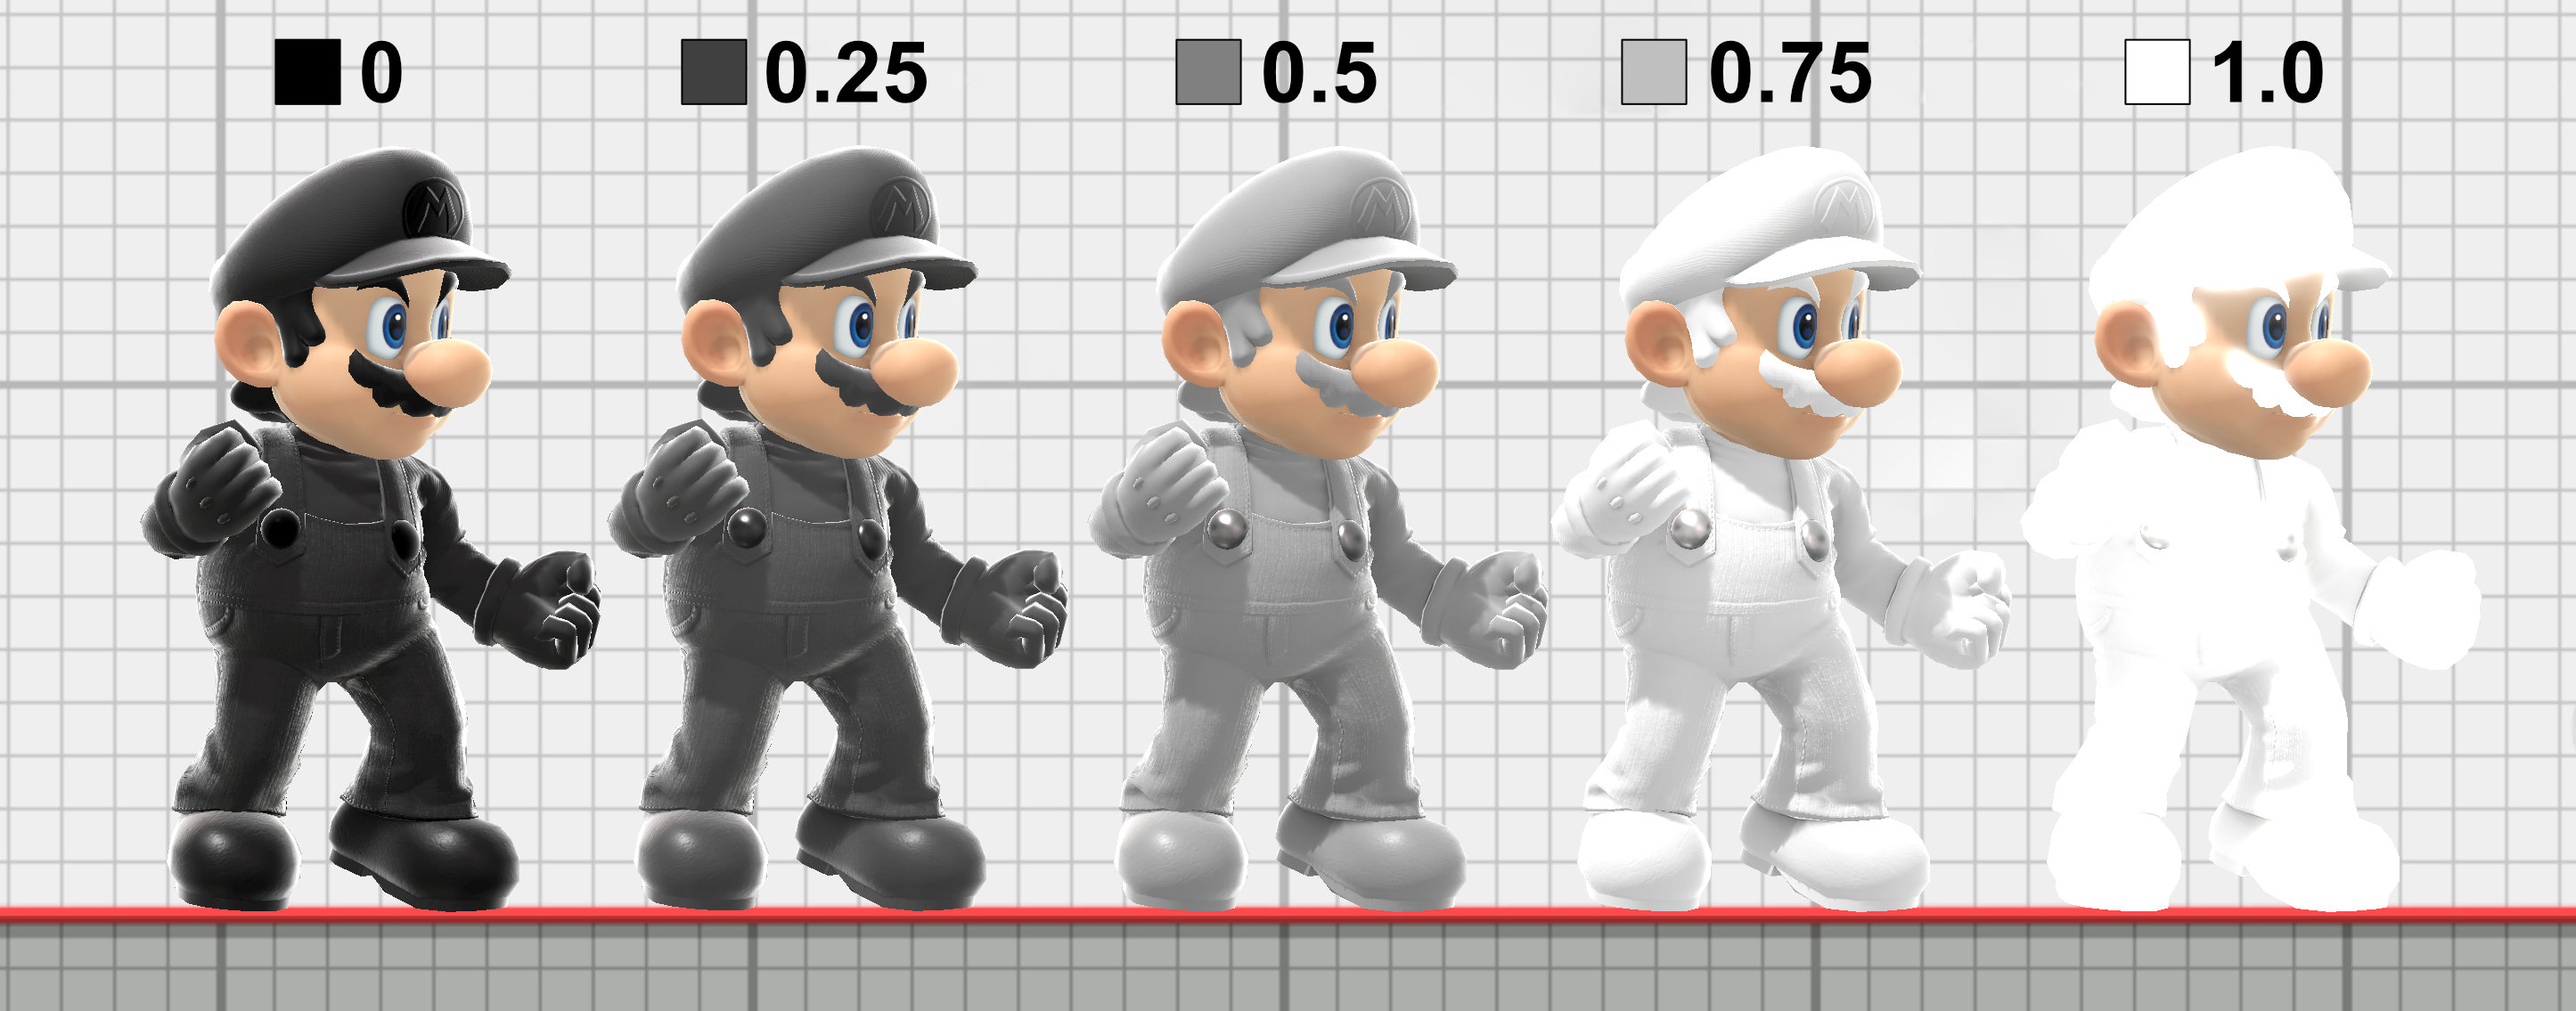
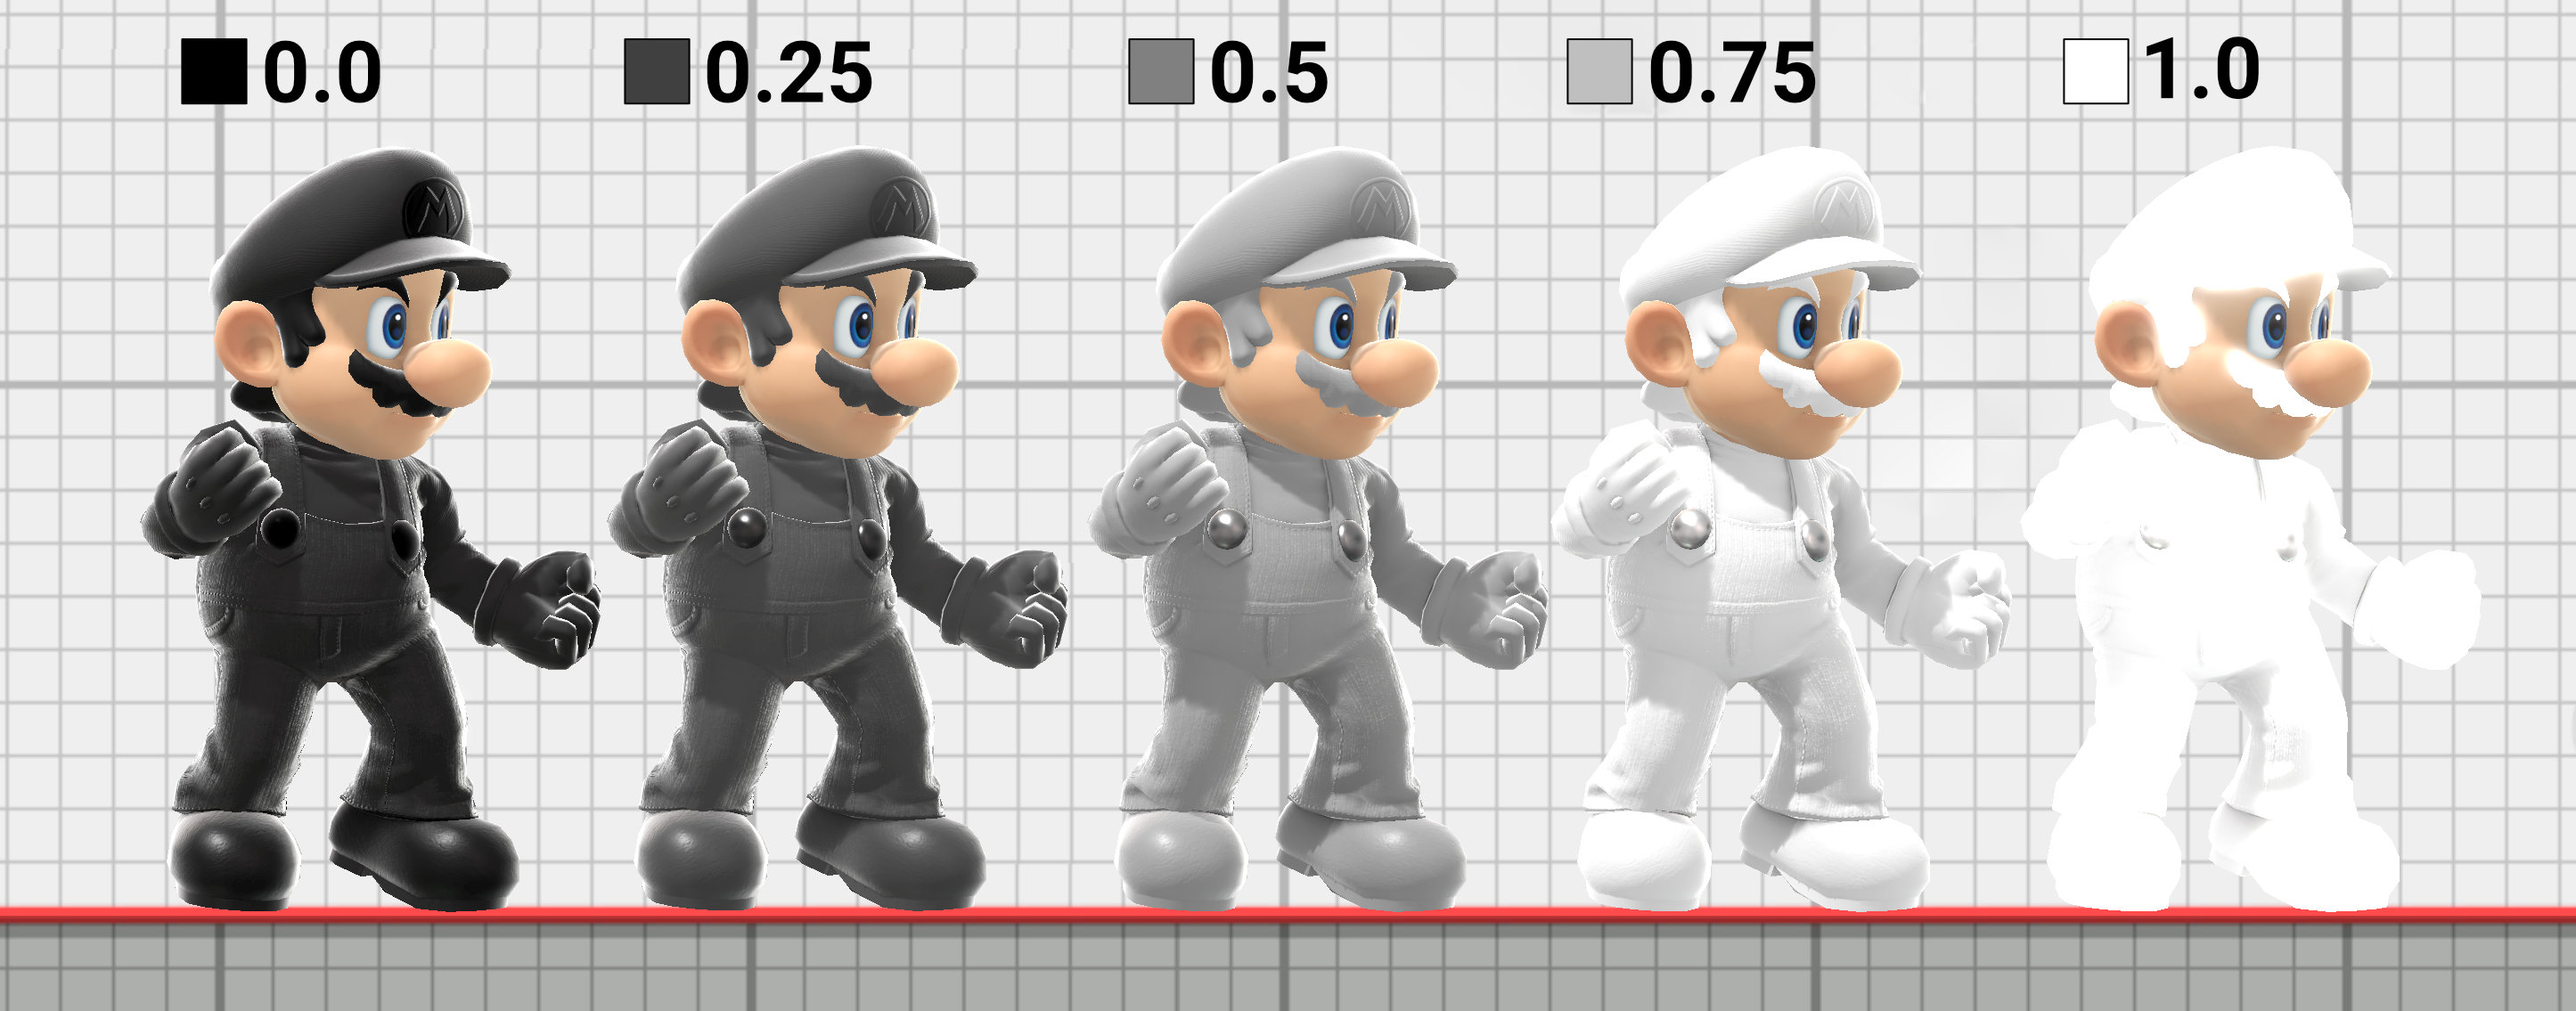
add image for ivysaur albedo, use robot font for figures

diff --git a/skin_materials.md b/skin_materials.md
@@ -65,6 +65,10 @@ float sssBlend = CustomVector30.x * metalness;
 ```
 
 ## Albedo Color
+<figure class="figure">
+    <img src="{{ "/assets/images/albedo/ivysaur_albedo.jpg" | relative_url }}" height="auto" width="auto">
+    <figcaption class="figure-caption text-center">Ivysaur's col map (left), CustomVector11.rgb (center), and calculated albedo color (right)</figcaption>
+</figure>
 The RGB values for CustomVector11 control the subsurface color. This is typically a dark red color to approximate skin.
 Bright colors will likely cause unwanted bloom.
 The albedo color is calculated using the col map color as well as CustomVector11's color.

diff --git a/albedo_recoloring.md b/albedo_recoloring.md
@@ -29,6 +29,7 @@ but there may be discolorations. Potential fixes are discussed in the image edit
 ### How to Determine Albedo Color
 The albedo values can be copied from the Col maps for non skin materials. For skin materials, copy paste the values from
 Cross Mod's albedo rendering mode by taking a screenshot or using a screen color picker. This takes into account the fake subsurface scattering effect applied in game.
+See [Skin Materials](skin_materials) for details.
 
 ### Example Code
 ```c
